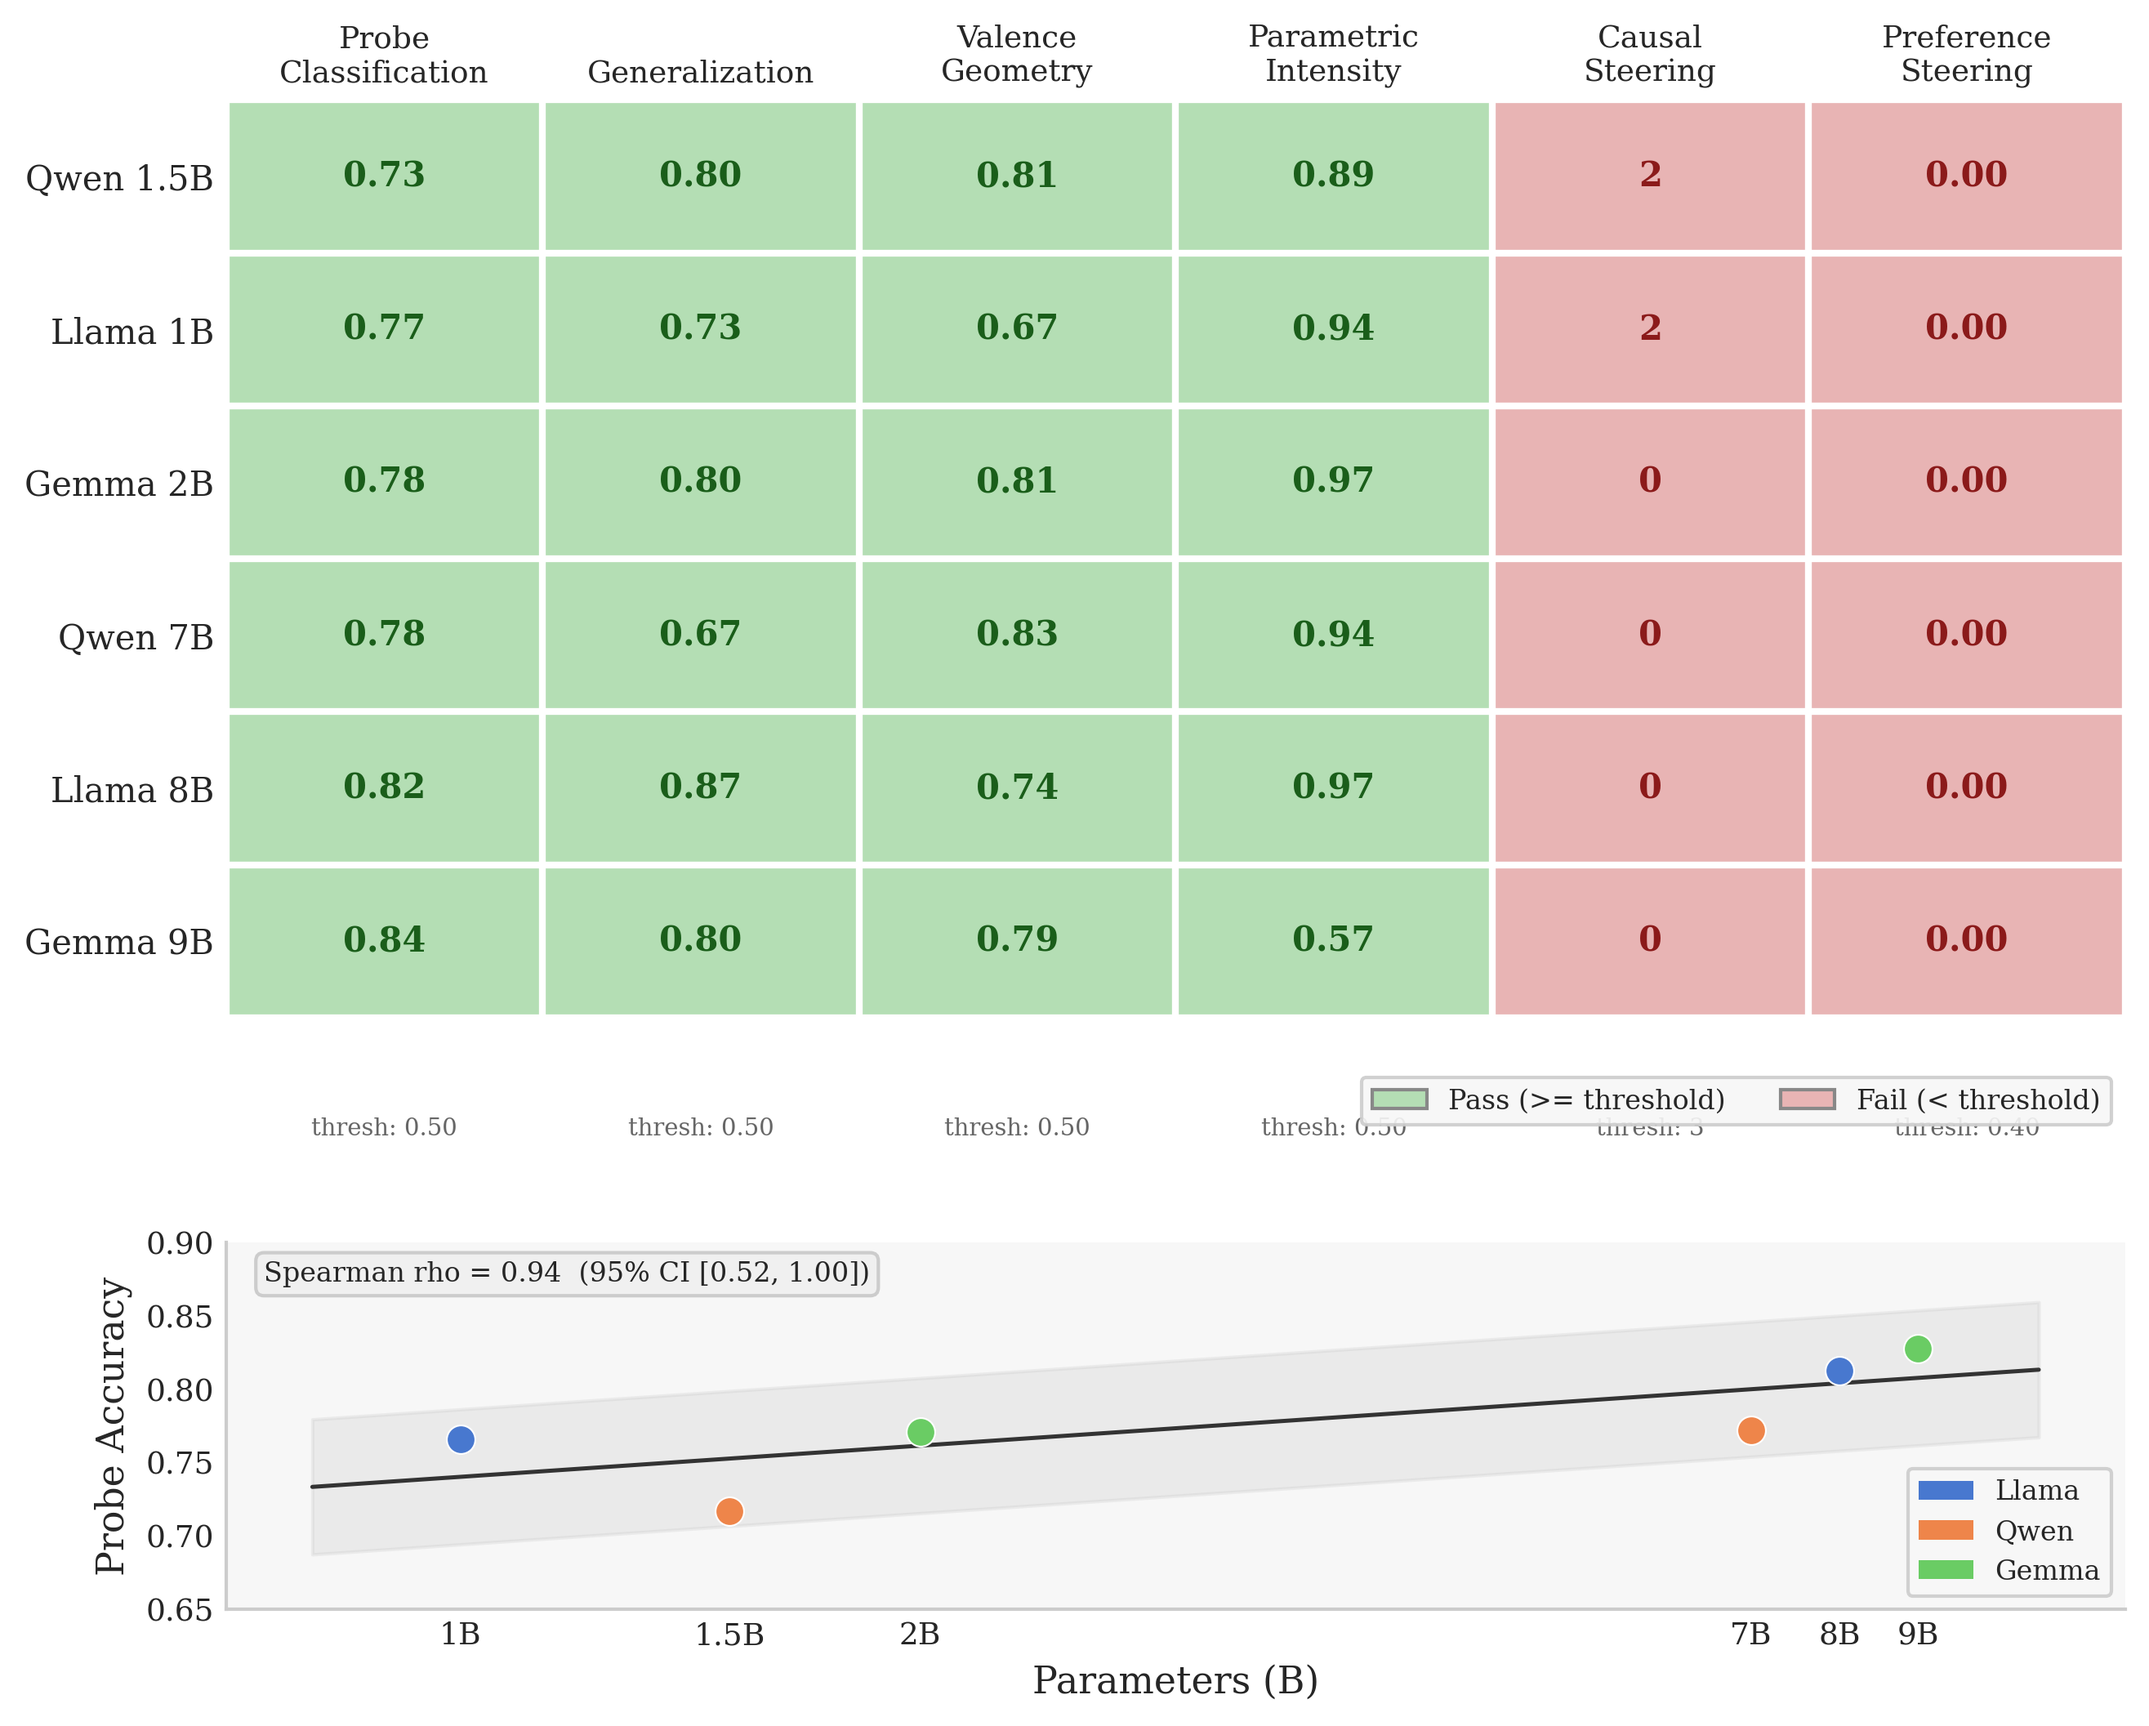
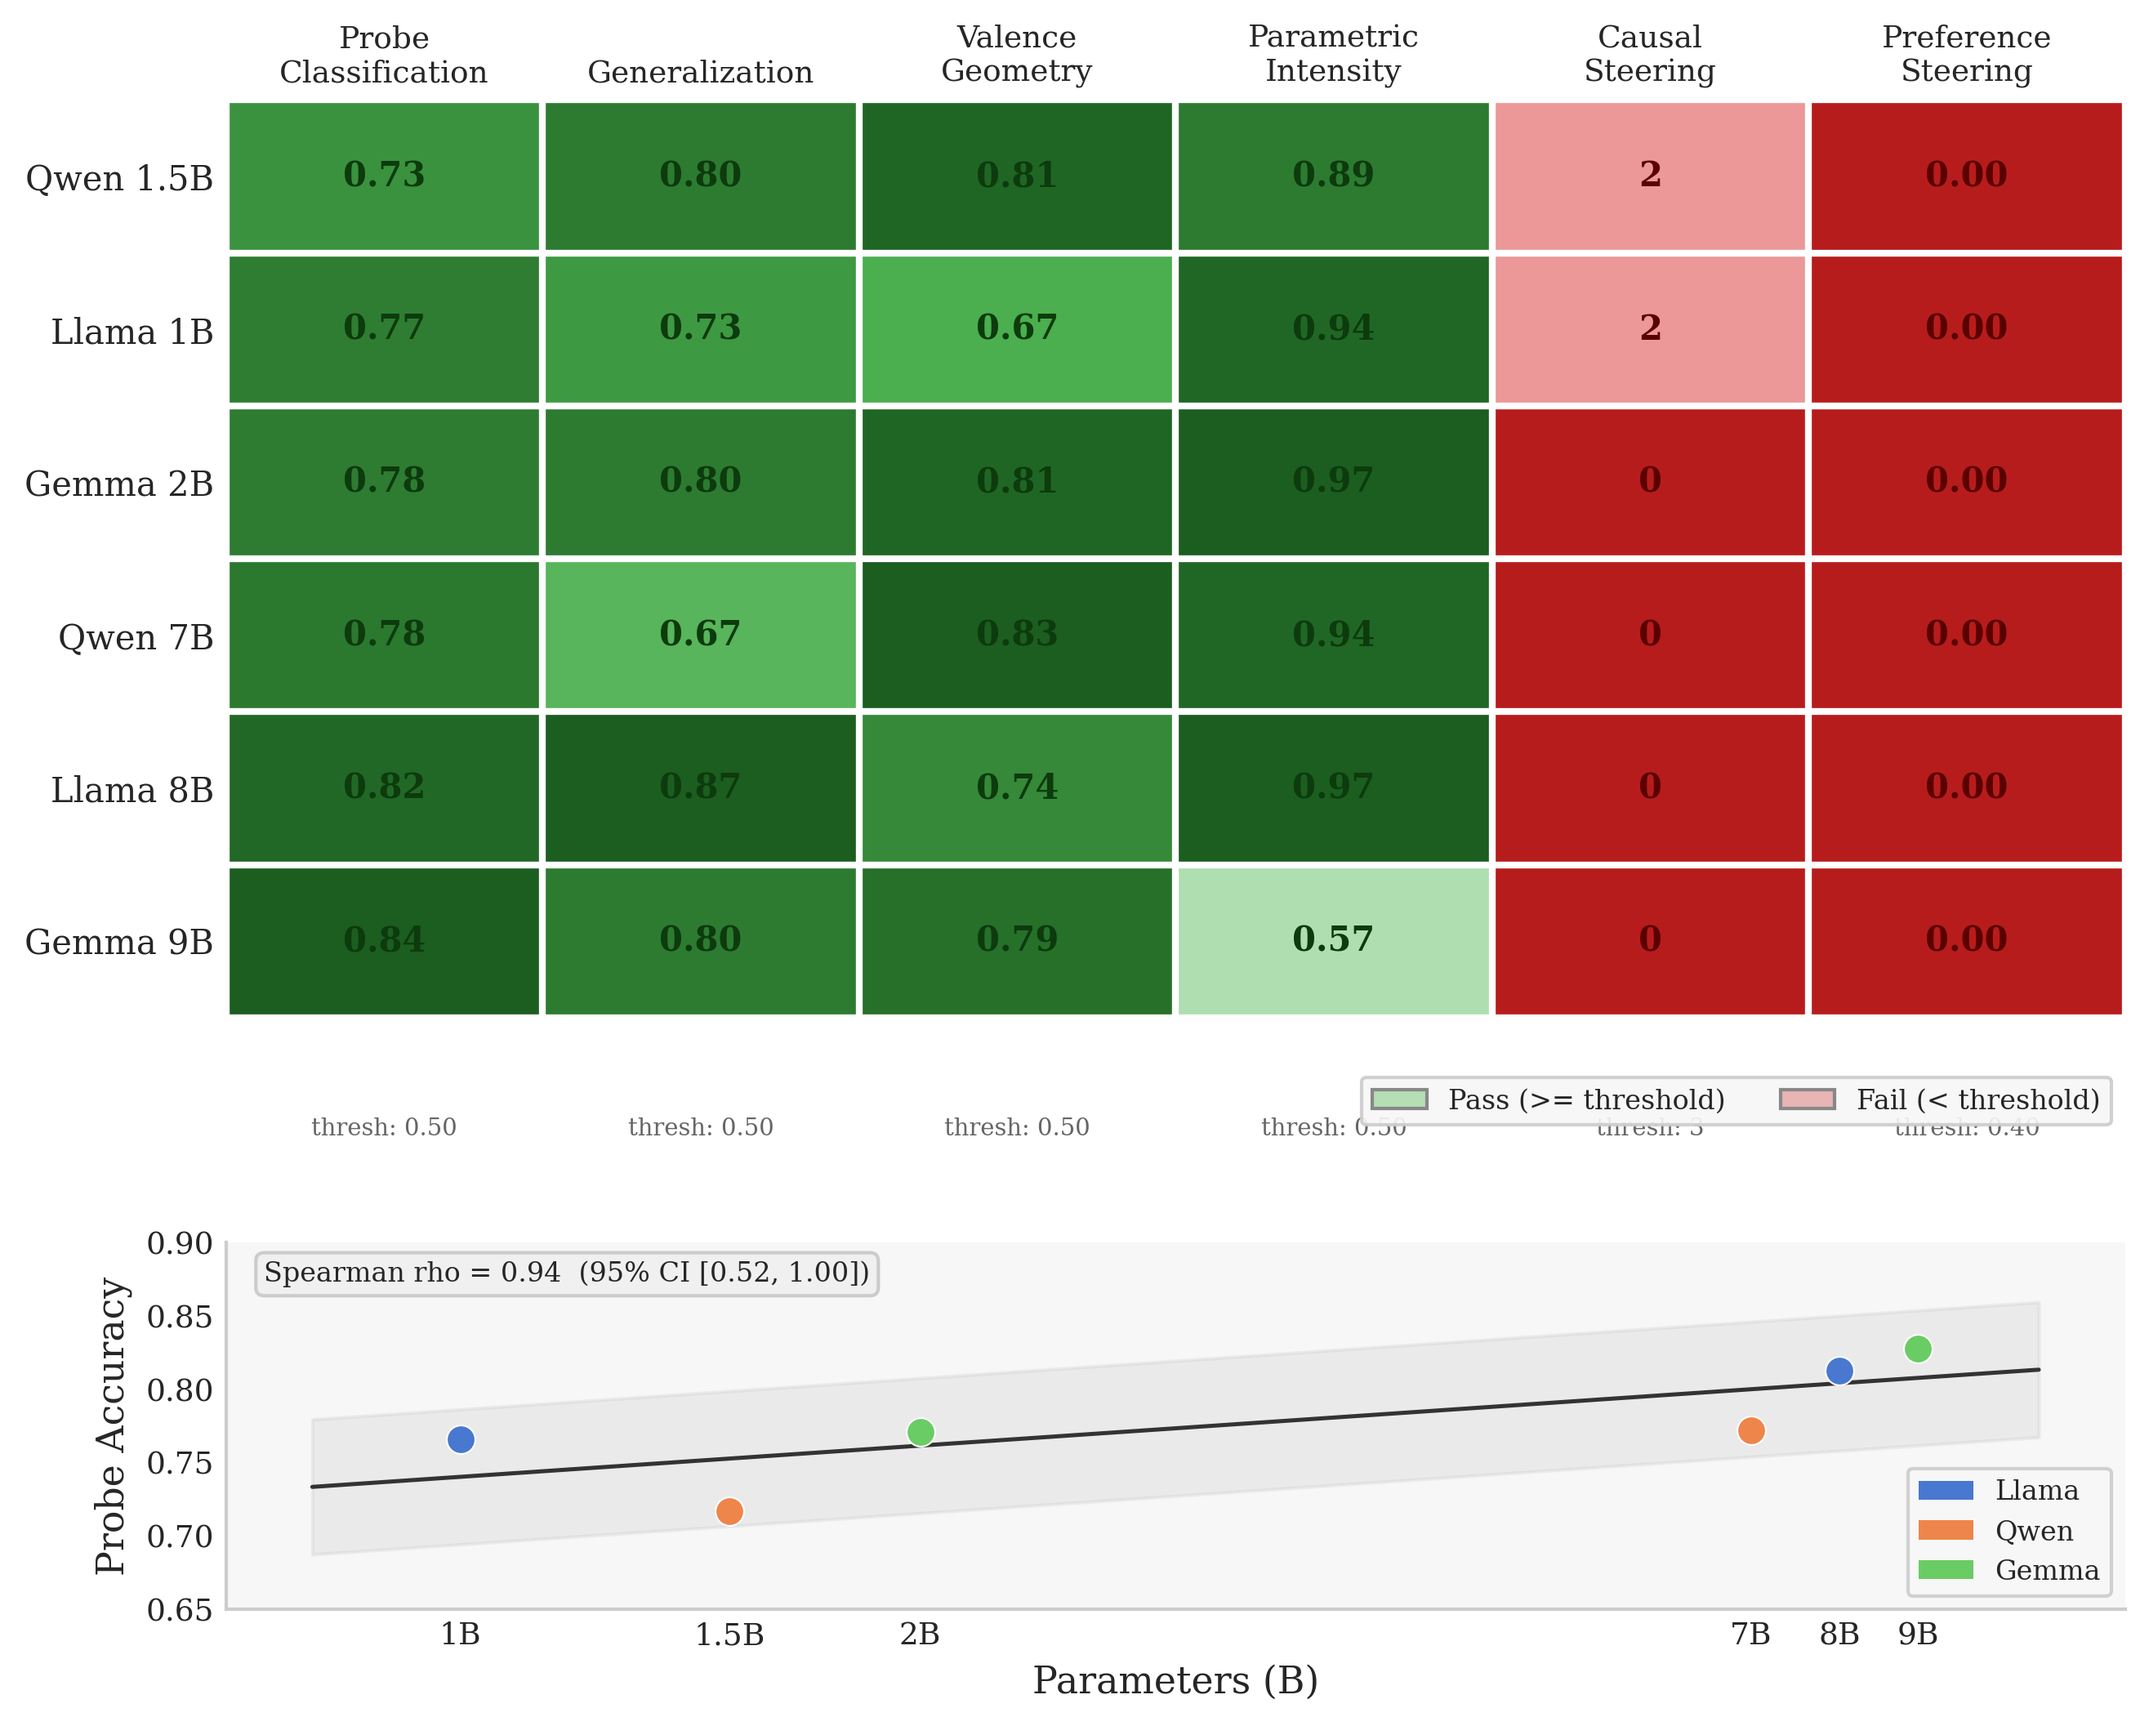
Fig 4: intensity-graded green/red in universality scorecard
Replaces the flat pass/fail colors with a gradient: higher passing
values get darker greens, lower passing values get lighter greens.
Failing cells use a red gradient (further from threshold = darker).
Each column is normalised independently since the metrics have
different natural ranges.

This makes it immediately visible which models perform strongest on
each claim, not just whether they pass the threshold.

diff --git a/scripts/generate_paper_figures.py b/scripts/generate_paper_figures.py
@@ -381,24 +381,54 @@ def fig4_universality_scorecard():
     ax_scale = fig.add_subplot(gs[1])
 
     # ── Heatmap ──
-    # Custom colormap: red for fail, green for pass
-    cmap_pass = mcolors.ListedColormap(["#E8B4B4", "#B4DEB4"])
-    bounds = [-0.5, 0.5, 1.5]
-    norm_pass = mcolors.BoundaryNorm(bounds, cmap_pass.N)
+    # Intensity-graded colors: stronger greens for higher passing values,
+    # stronger reds for values further below threshold.  Each column is
+    # normalised independently so the colour gradient is meaningful within
+    # each claim (different metrics have different natural ranges).
+    from matplotlib.colors import LinearSegmentedColormap
 
-    ax_heat.imshow(pass_matrix.astype(float), cmap=cmap_pass, norm=norm_pass,
-                   aspect="auto", interpolation="nearest")
+    green_cmap = LinearSegmentedColormap.from_list(
+        "greens", ["#daf2da", "#4caf50", "#1b5e20"], N=256
+    )
+    red_cmap = LinearSegmentedColormap.from_list(
+        "reds", ["#fce4e4", "#e57373", "#b71c1c"], N=256
+    )
+
+    # Build an RGBA image so each cell can use an independent colourmap.
+    cell_colors = np.zeros((n_models, n_claims, 4))
+    for j in range(n_claims):
+        col_vals = data_matrix[:, j]
+        thresh = thresholds[j]
+
+        # Passing cells: normalise to [0, 1] within the range
+        # [threshold, column_max].  Higher values -> darker green.
+        pass_mask = col_vals >= thresh
+        col_max = col_vals[pass_mask].max() if pass_mask.any() else thresh + 1e-9
+        col_min_pass = thresh
+        span = max(col_max - col_min_pass, 1e-9)
+
+        for i in range(n_models):
+            if pass_matrix[i, j]:
+                normed = np.clip((col_vals[i] - col_min_pass) / span, 0, 1)
+                cell_colors[i, j] = green_cmap(normed)
+            else:
+                # Failing cells: normalise within [0, threshold].
+                # Lower values -> darker red.
+                normed = np.clip(1.0 - col_vals[i] / max(thresh, 1e-9), 0, 1)
+                cell_colors[i, j] = red_cmap(normed)
+
+    ax_heat.imshow(cell_colors, aspect="auto", interpolation="nearest")
 
     # Annotate cells with values
     for i in range(n_models):
         for j in range(n_claims):
             val = data_matrix[i, j]
-            # Format: integers for causal_effect_count, else 2 decimal places
-            if j == 4:  # causal_steering_behavior
+            if j == 4:  # causal_steering_behavior (integer count)
                 text = f"{int(val)}"
             else:
                 text = f"{val:.2f}"
-            text_color = "#1a5e1a" if pass_matrix[i, j] else "#8b1a1a"
+            # Dark text for readability against the gradient backgrounds
+            text_color = "#0d3b0d" if pass_matrix[i, j] else "#5a0000"
             ax_heat.text(j, i, text, ha="center", va="center",
                          fontsize=10, fontweight="bold", color=text_color)
 
